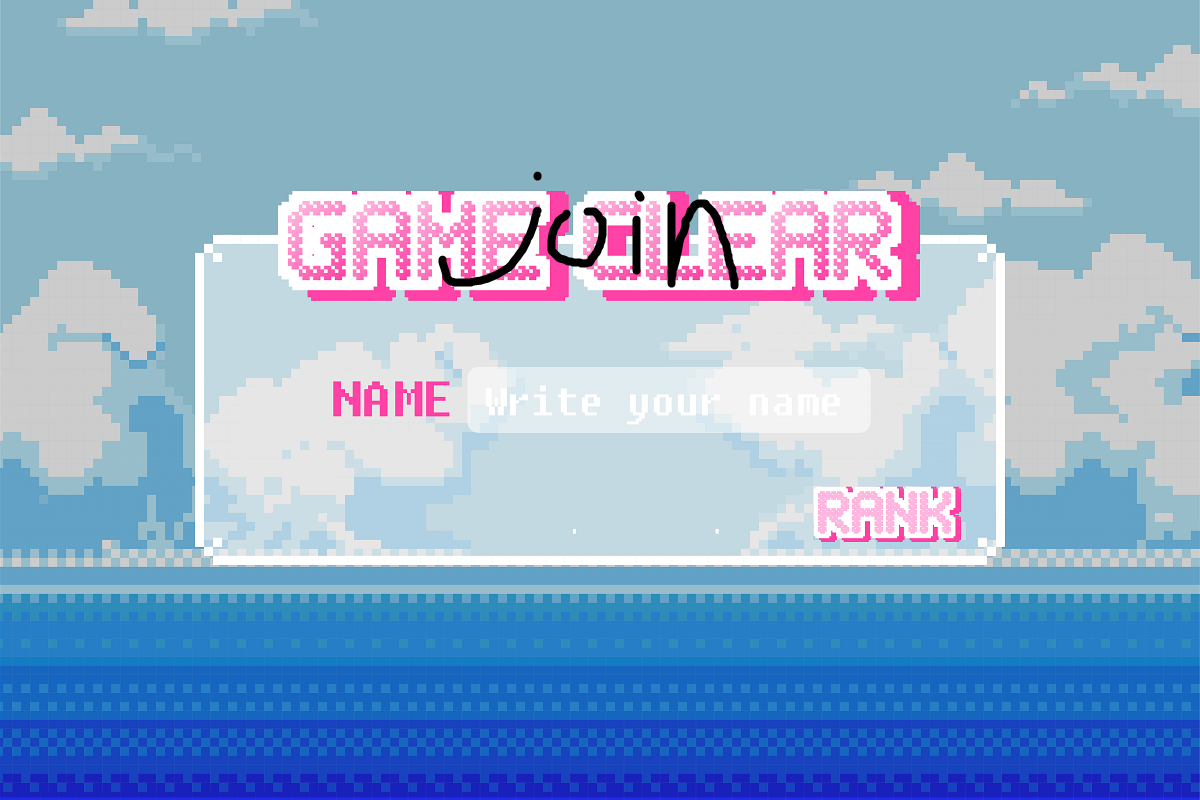
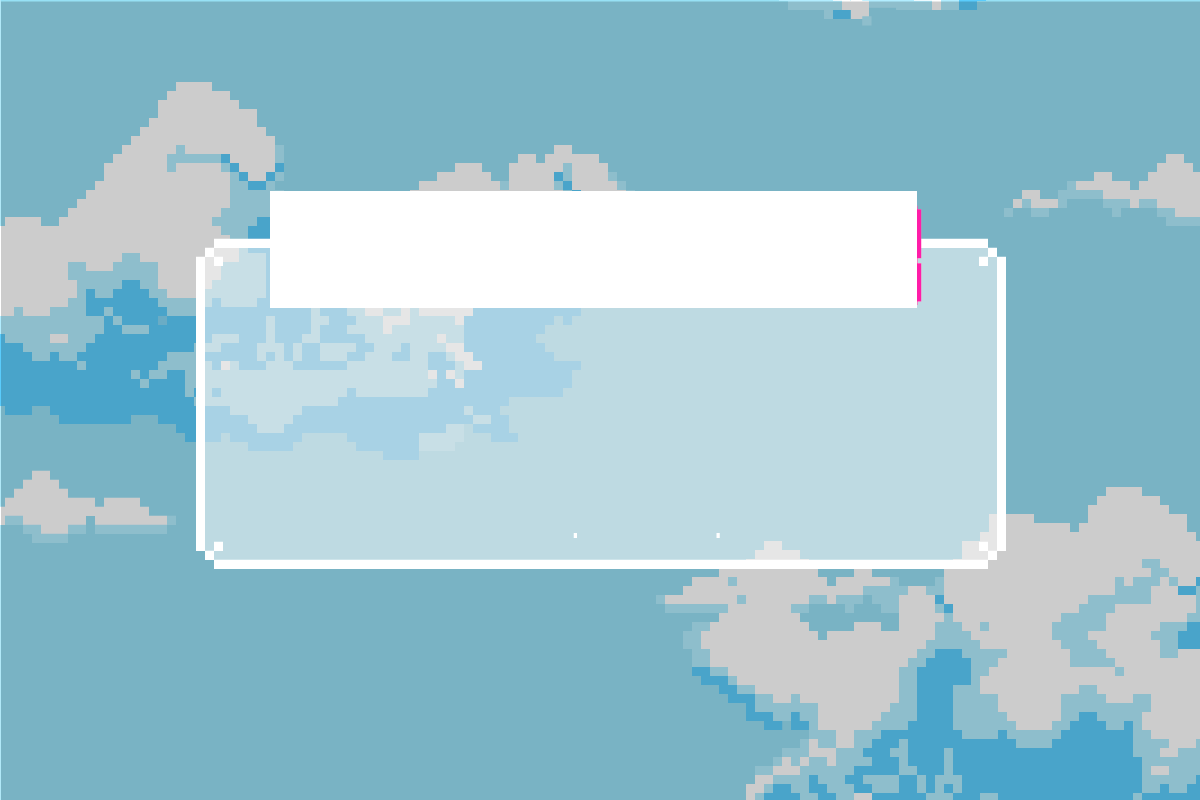
custom 폰트 추가 반영, custom JTextField 반영, 대표색 Main에 상수 선언

diff --git a/src/panel/CustomTextField.java b/src/panel/CustomTextField.java
@@ -1,20 +1,30 @@
 package panel;
 
+import JumpRabbit.JumpRabbit;
+
 import javax.swing.*;
+import javax.swing.border.EmptyBorder;
 import java.awt.*;
 import java.awt.event.FocusAdapter;
 import java.awt.event.FocusEvent;
+import JumpRabbit.Main;
 
 public class CustomTextField extends JTextField {
     private static final long serialVersionUID = 1L;
-    private static final Font focusGainFont = new Font("Courier New", Font.PLAIN, 12);
-    private static final Font focusLostFont = new Font("Courier New", Font.ITALIC, 12);
     private Image img;
     private CustomTextField hintTextField;
 
     public CustomTextField() {
         hintTextField = this;
+        setBorder(new EmptyBorder(20, 20, 10, 3));
     }
+
+    @Override
+    public void paint(Graphics g) {
+        super.paint(g);
+        g.drawImage(img, 0, 0, this);
+    }
+
 
     @Override
     public void paintComponent(Graphics g) {
@@ -30,19 +40,11 @@ public class CustomTextField extends JTextField {
     public void setBackgroundImage(String imPath){
         img = new ImageIcon(imPath).getImage();
         setOpaque(false);
-        new JComponent(){
-            private static final long serialVersionUID = 1L;
-
-            @Override
-            public void paintComponent(Graphics g) {
-                super.paintComponent(g);
-            }
-        };
     }
 
     public void setHint(String hint){
         hintTextField.setText(hint);
-        hintTextField.setFont(focusLostFont);
+        hintTextField.setFont(Main.font.deriveFont(20f));
         hintTextField.setForeground(Color.GRAY);
         hintTextField.addFocusListener(new FocusAdapter() {
 
@@ -54,19 +56,19 @@ public class CustomTextField extends JTextField {
                 } else {
                     hintTextField.setText(getText());
                 }
-                hintTextField.setFont(focusGainFont);
-                hintTextField.setForeground(Color.BLACK);
+                hintTextField.setFont(Main.font.deriveFont(20f));
+                hintTextField.setForeground(Color.blue);
             }
 
             @Override
             public void focusLost(FocusEvent e) {
                 if ( hintTextField.getText().equals(hint) || getText().length() == 0) {
                     hintTextField.setText(hint);
-                    hintTextField.setFont(focusLostFont);
+                    hintTextField.setFont(Main.font.deriveFont(20f));
                     hintTextField.setForeground(Color.GRAY);
                 } else {
                     hintTextField.setText(getText());
-                    hintTextField.setFont(focusGainFont);
+                    hintTextField.setFont(Main.font.deriveFont(20f));
                     hintTextField.setForeground(Color.BLACK);
                 }
             }

diff --git a/src/panel/RankPanel.java b/src/panel/RankPanel.java
@@ -126,7 +126,7 @@ public class RankPanel extends JPanel implements ActionListener {
             listRank.get(rank-1).setBounds(X_RANK, Y_LABEL + 50 * rank, W_RANK, H_LABEL);
 
         listRank.get(rank-1).setFont(Main.font.deriveFont(29f));
-        listRank.get(rank-1).setForeground(Color.decode("#ff42a5"));
+        listRank.get(rank-1).setForeground(Main.defaultColor);
         add(listRank.get(rank-1));
     }
 
@@ -134,7 +134,7 @@ public class RankPanel extends JPanel implements ActionListener {
     private void genName(int index, int rank, int i) {
         listName.add(new JLabel((String) listScore.get(index)));
         listName.get(rank-1).setFont(Main.font.deriveFont(29f));
-        listName.get(rank-1).setForeground(Color.decode("#ff42a5"));
+        listName.get(rank-1).setForeground(Main.defaultColor);
 
         if(i==0)
             listName.get(rank-1).setBounds(X_RANK, Y_LABEL, W_RANK, H_LABEL);
@@ -151,7 +151,7 @@ public class RankPanel extends JPanel implements ActionListener {
         else
             listGrade.get(rank-1).setBounds(X_SCORE, Y_LABEL + 50 * rank, W_SCORE, H_LABEL);
         listGrade.get(rank-1).setFont(Main.font.deriveFont(29f));
-        listGrade.get(rank-1).setForeground(Color.decode("#ff42a5"));
+        listGrade.get(rank-1).setForeground(Main.defaultColor);
         add(listGrade.get(rank-1));
     }
 

diff --git a/src/JumpRabbit/Main.java b/src/JumpRabbit/Main.java
@@ -10,6 +10,7 @@ import java.sql.SQLException;
 public class Main {
     public static final int SCREEN_WIDTH = 1200;
     public static final int SCREEN_HEIGHT = 850;
+    public static final Color defaultColor = Color.decode("#ff42a5");
 
     public static Font font;
 
